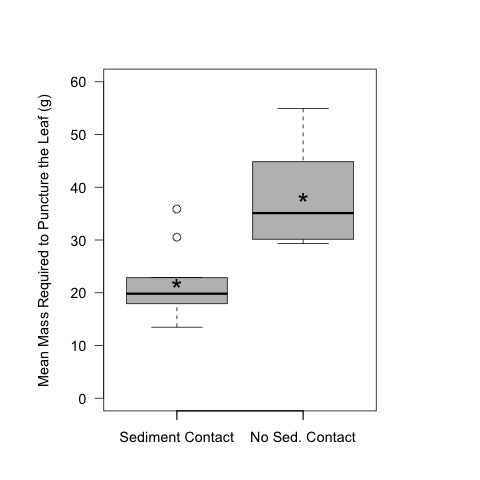
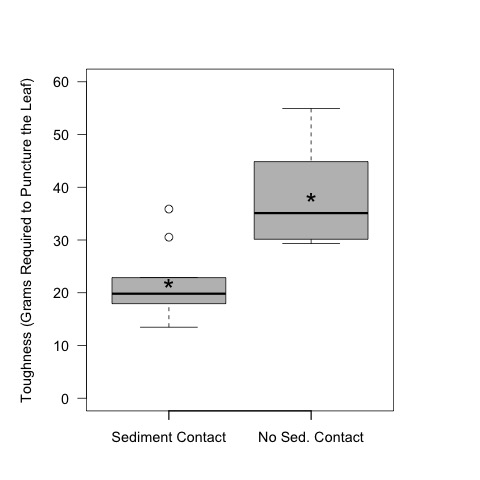
minor figure tweaks

diff --git a/lab_notebook/analysis/mass_loss_analysis.md b/lab_notebook/analysis/mass_loss_analysis.md
@@ -129,7 +129,7 @@ $Top
  
 ### Compare mass loss by position
 
-    par(las = 1)
+    par(las = 1, mar = c(4, 5, 4, 5), cex = 1.2)
     plot(AFDM.loss * 1000 ~ Position, data = leaf.final, ylim = c(0, 2), xlim = c(.50, 2.5), axes = F, xlab = " ", ylab = "Mass Loss (mg AFDM)", col = "gray")
     text(1, mean(AFDM.loss[leaf.final$Position == "Sed"] * 1000), "*", cex = 2)
     text(2, mean(AFDM.loss[leaf.final$Position == "Top"] * 1000), "*", cex = 2)
@@ -139,7 +139,7 @@ $Top
     dev.copy(jpeg, "./output/plots/mass_loss.jpg")
     dev.off()
 
-![Mass lost from leaves in the sediments or water column](../output/plots/mass_loss.jpg)
+[Mass lost from leaves in the sediments or water column](../output/plots/mass_loss.jpg)
 
 Mass lost from leaves in the sediments or water column
 

diff --git a/lab_notebook/analysis/toughness_analysis.md b/lab_notebook/analysis/toughness_analysis.md
@@ -82,7 +82,7 @@ mean of x mean of y
 ### Plots
  
     par(las = 1, cex = 1.2, mar = c(4, 5, 4, 5))
-    boxplot(mean.tough.sed, mean.tough.top, ylim = c(0, 60), ylab = "Mean Mass Required to Puncture the Leaf (g)", xlab = " ", col = 8 )
+    boxplot(mean.tough.sed, mean.tough.top, ylim = c(0, 60), ylab = "Toughness (Grams Required to Puncture the Leaf)", xlab = " ", col = 8 )
     text(1, mean(mean.tough.sed), "*", cex = 2)
     text(2, mean(mean.tough.top), "*", cex = 2)
     axis(1, c("Sediment Contact", "No Sed. Contact"), at = c(1, 2))
